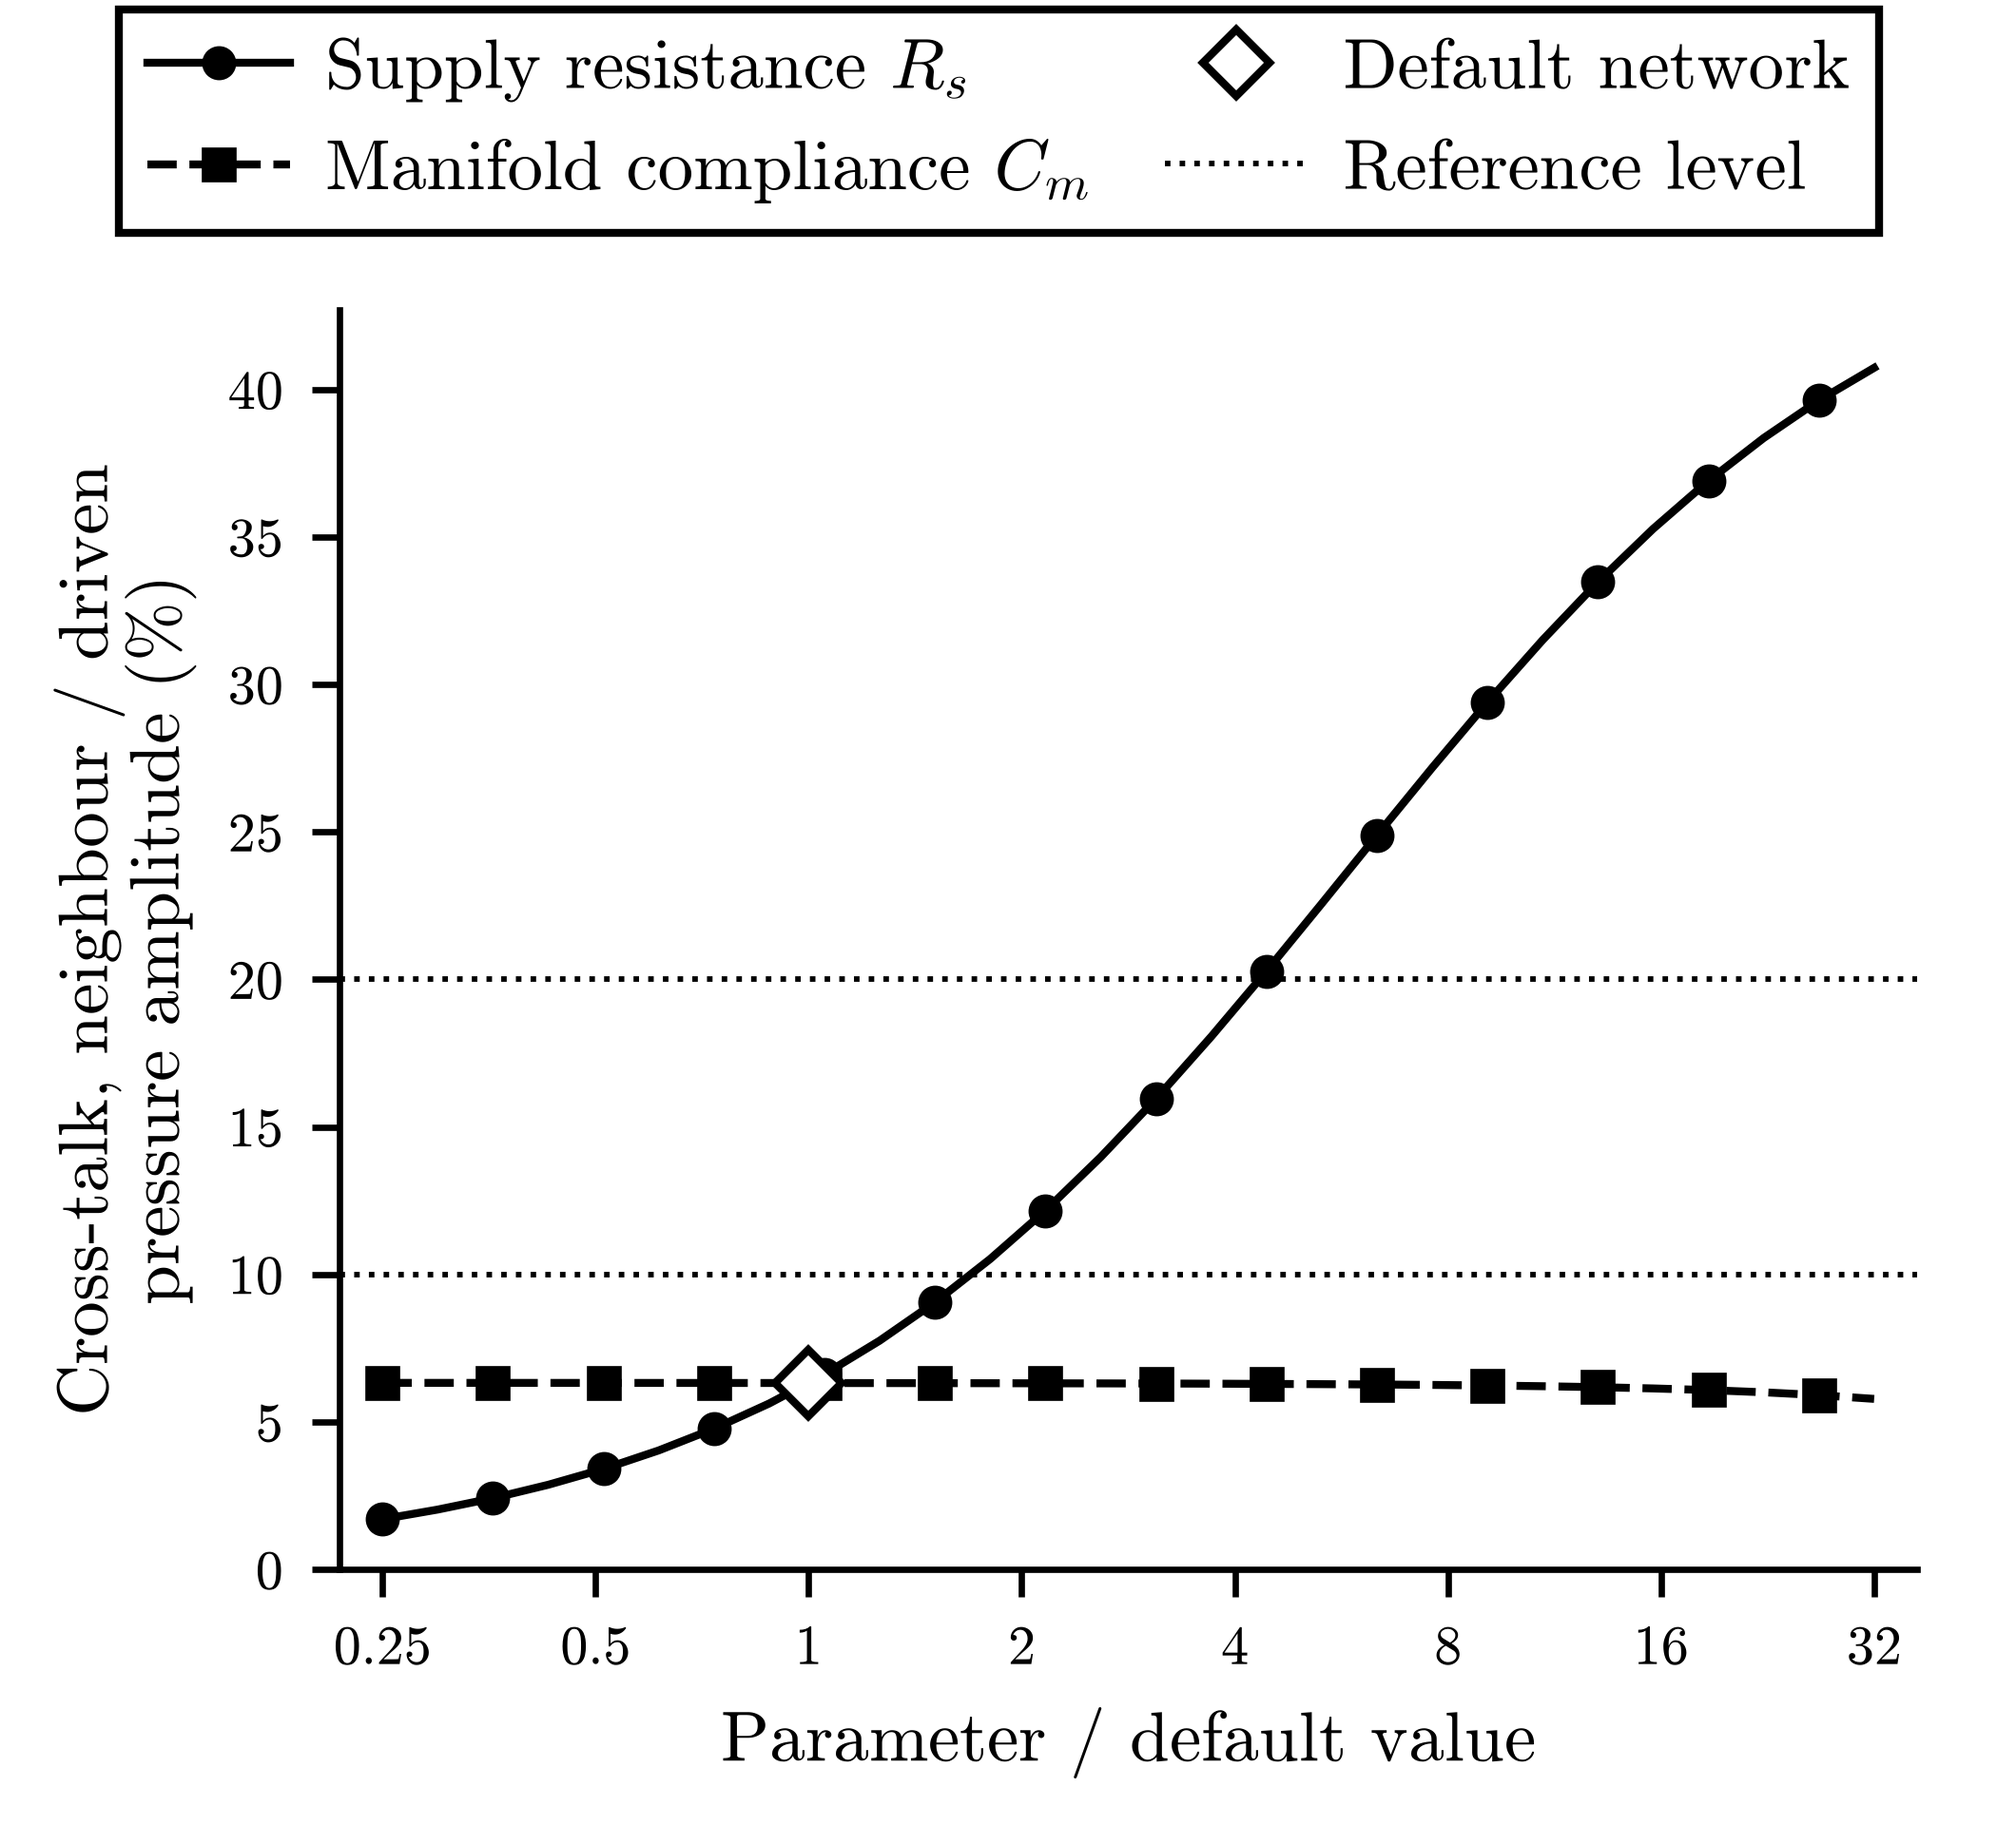
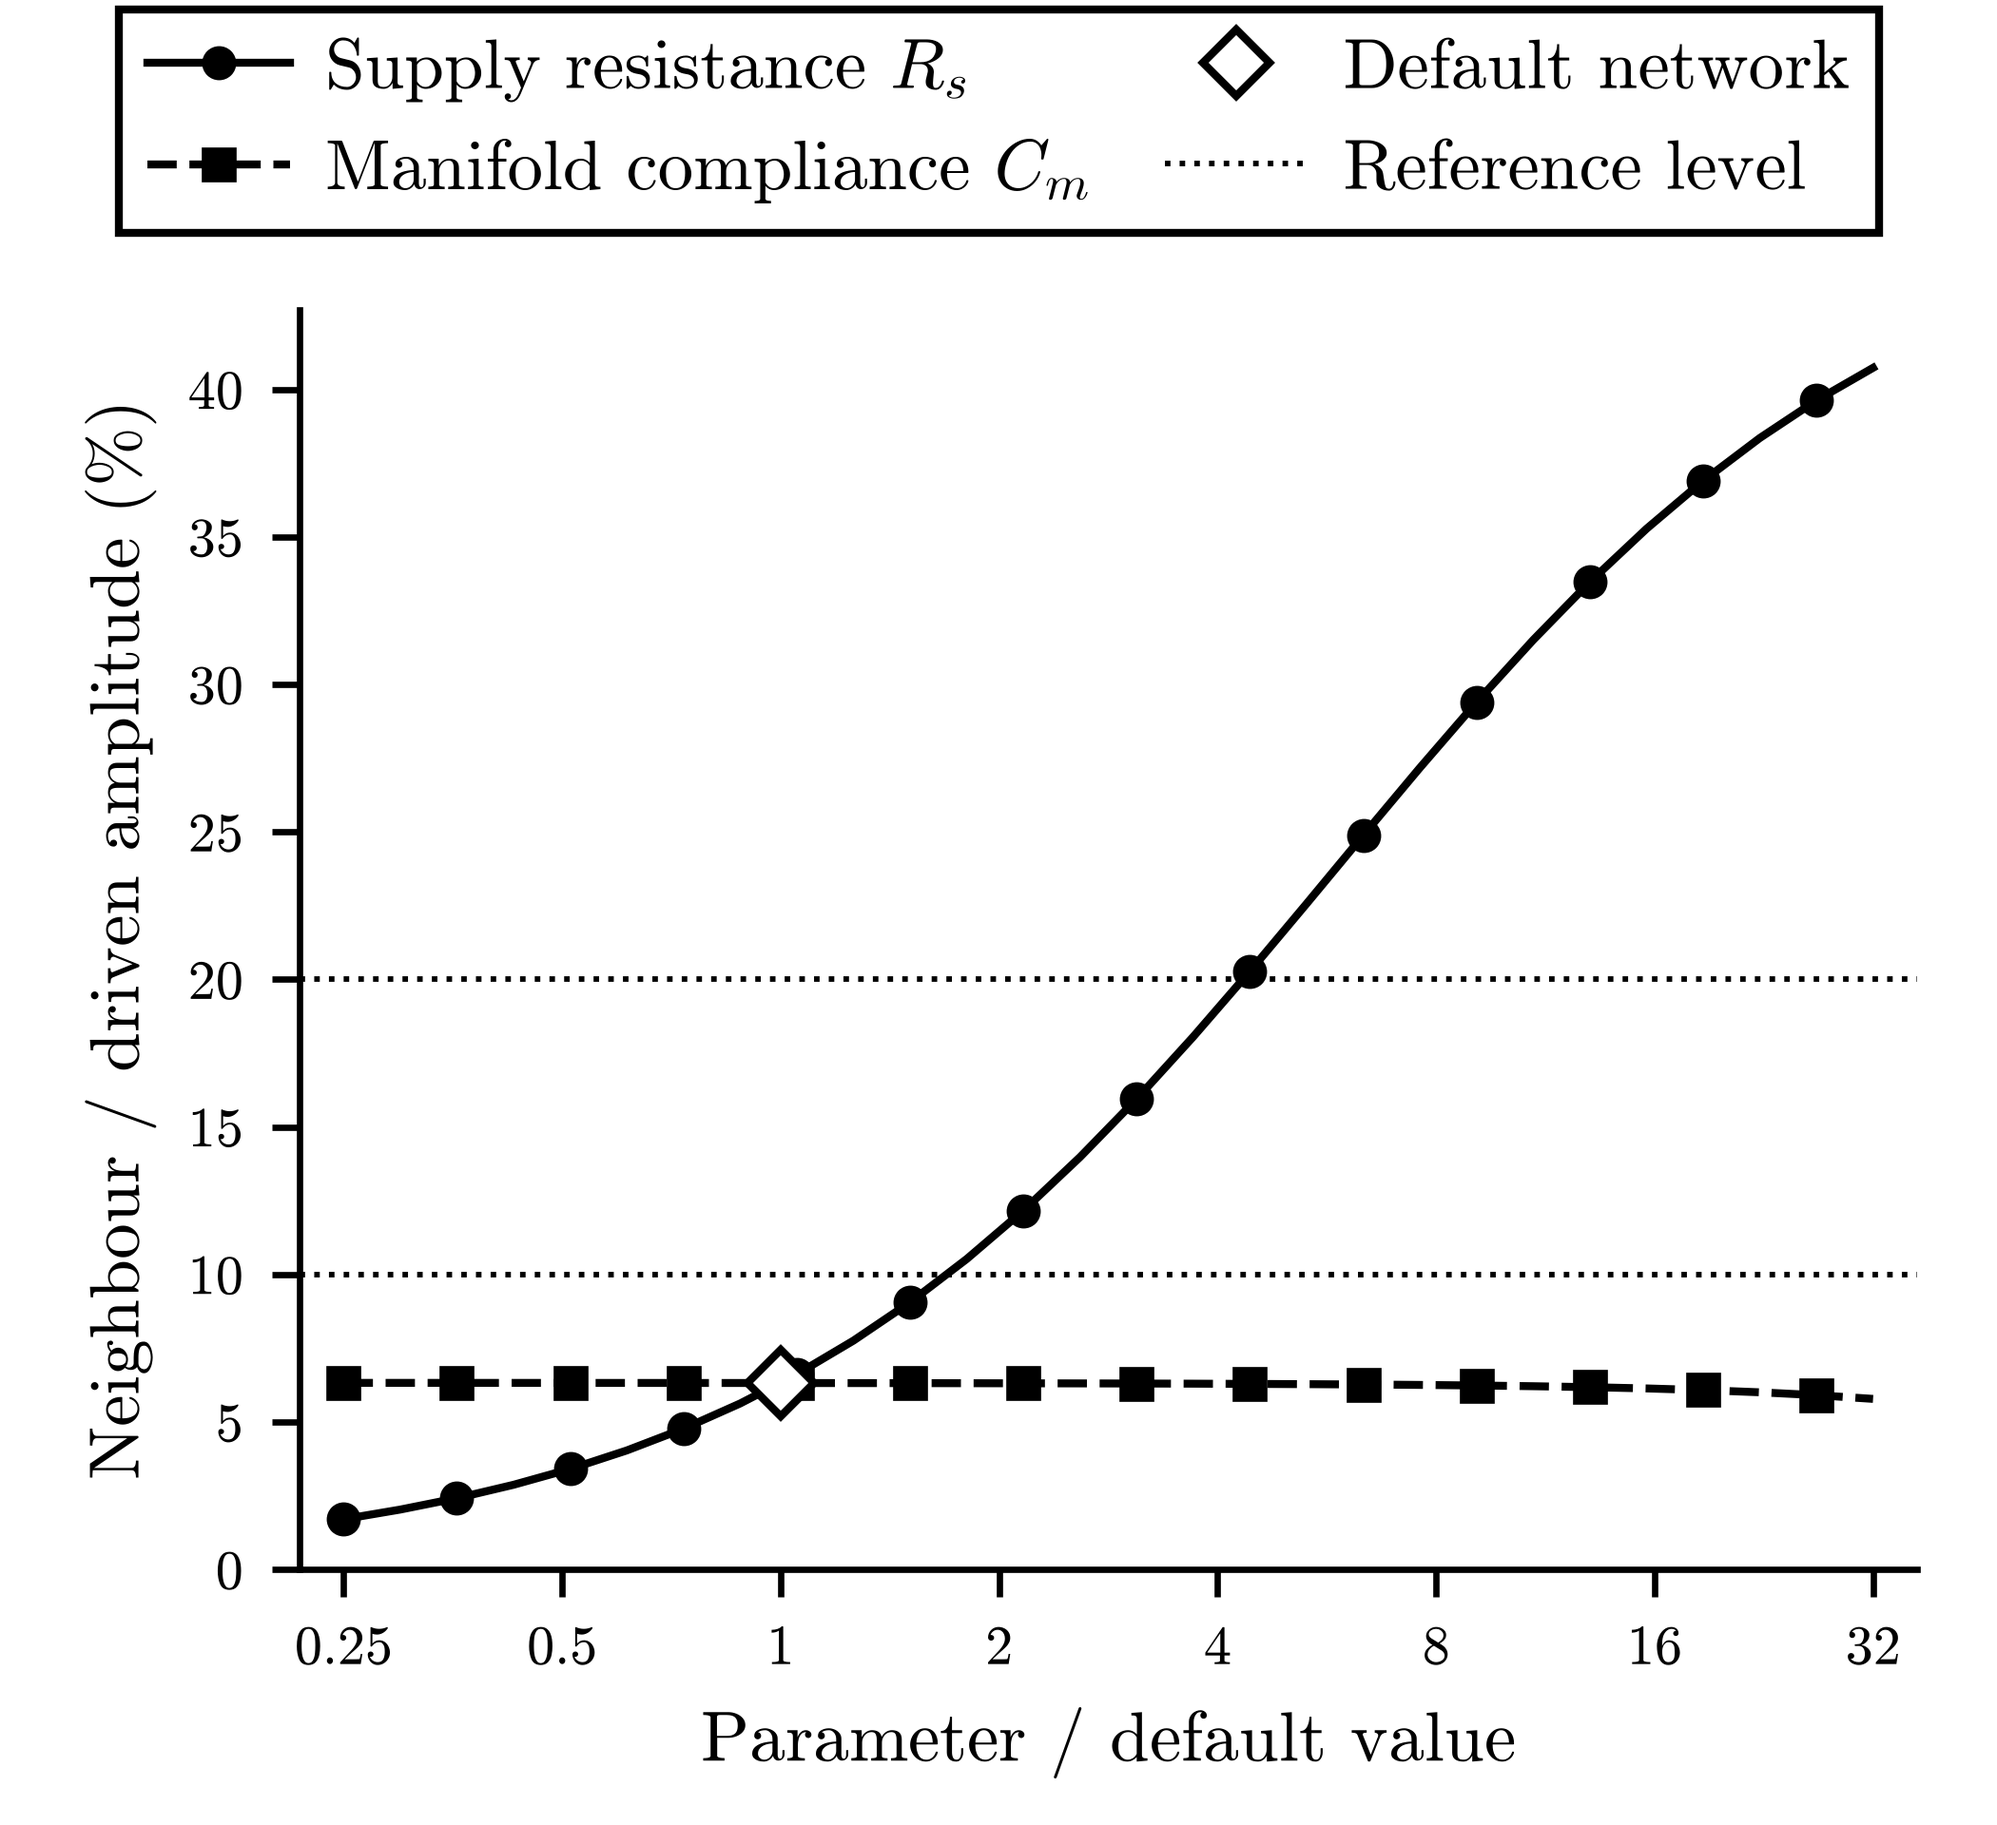
Skip unplaceable collections in the overlap audit and give two Phase D figures more room

diff --git a/scripts/run_study4.py b/scripts/run_study4.py
@@ -268,7 +268,7 @@ def crosstalk_figure(results):
     style.apply()
     x = np.asarray(results["sweep_multiplier"])
     fig, ax = plt.subplots(figsize=(style.SINGLE, 3.2))
-    fig.subplots_adjust(left=.17, right=.96, top=.83, bottom=.14)
+    fig.subplots_adjust(left=.15, right=.96, top=.83, bottom=.14)
     for th in results["thresholds"]:
         ax.axhline(th * 100.0, zorder=1, **REFERENCE_LEVEL)
     handles = []
@@ -287,7 +287,7 @@ def crosstalk_figure(results):
     ax.set_xlim(x[0] / 1.15, x[-1] * 1.15)
     ax.set_ylim(0, None)
     ax.set_xlabel("Parameter / default value")
-    ax.set_ylabel("Cross-talk, neighbour / driven\npressure amplitude (%)")
+    ax.set_ylabel("Neighbour / driven amplitude (%)")
     fig.legend(handles=handles, loc="upper center", bbox_to_anchor=(.5, .995), ncol=2,
                columnspacing=1.0, handletextpad=.5, borderaxespad=0)
     return fig

diff --git a/scripts/figure_style.py b/scripts/figure_style.py
@@ -23,6 +23,7 @@ import re
 import warnings
 
 import matplotlib
+import numpy as np
 matplotlib.use("Agg")
 import matplotlib.pyplot as plt  # noqa: E402
 from matplotlib.text import Text  # noqa: E402
@@ -123,6 +124,8 @@ def audit(fig) -> list[tuple[str, str]]:
     others = [(f"data in {ax.get_ylabel() or 'axes'}", artist.get_window_extent(renderer), None)
               for ax in fig.axes if ax.get_label() != "<colorbar>"
               for artist in list(ax.lines) + list(ax.patches) + list(ax.collections)]
+    # Some collections (errorbar caps, vlines) report an infinite box; they cannot be placed, so skip them.
+    others = [o for o in others if np.isfinite(o[1].get_points()).all()]
     others += [("legend frame", legend.get_window_extent(renderer), legend) for legend in legends]
     hits = []
     for i, (name_a, box_a, legend_a) in enumerate(texts):

diff --git a/scripts/run_study3_cluster_ci.py b/scripts/run_study3_cluster_ci.py
@@ -552,8 +552,8 @@ def cluster_tradeoff_figure(results):
     P, FR = results["policies_on_heldout_with_cluster_ci"], results["lead_frontier_with_cluster_ci"]
     prov = results["provenance"]
     budget, tau_star = prov["accuracy_budget_mm"], prov["tau_selected"]
-    fig, (axA, axB) = plt.subplots(1, 2, figsize=(style.FULL, 3.4))
-    fig.subplots_adjust(left=.085, right=.985, top=.76, bottom=.14, wspace=.32)
+    fig, (axA, axB) = plt.subplots(1, 2, figsize=(style.FULL, 3.6))
+    fig.subplots_adjust(left=.085, right=.985, top=.735, bottom=.13, wspace=.32)
     axA.axhline(budget, zorder=1, **style.REFERENCE)
     for key, _, marker in S3.POLICIES:
         v = P[key]
